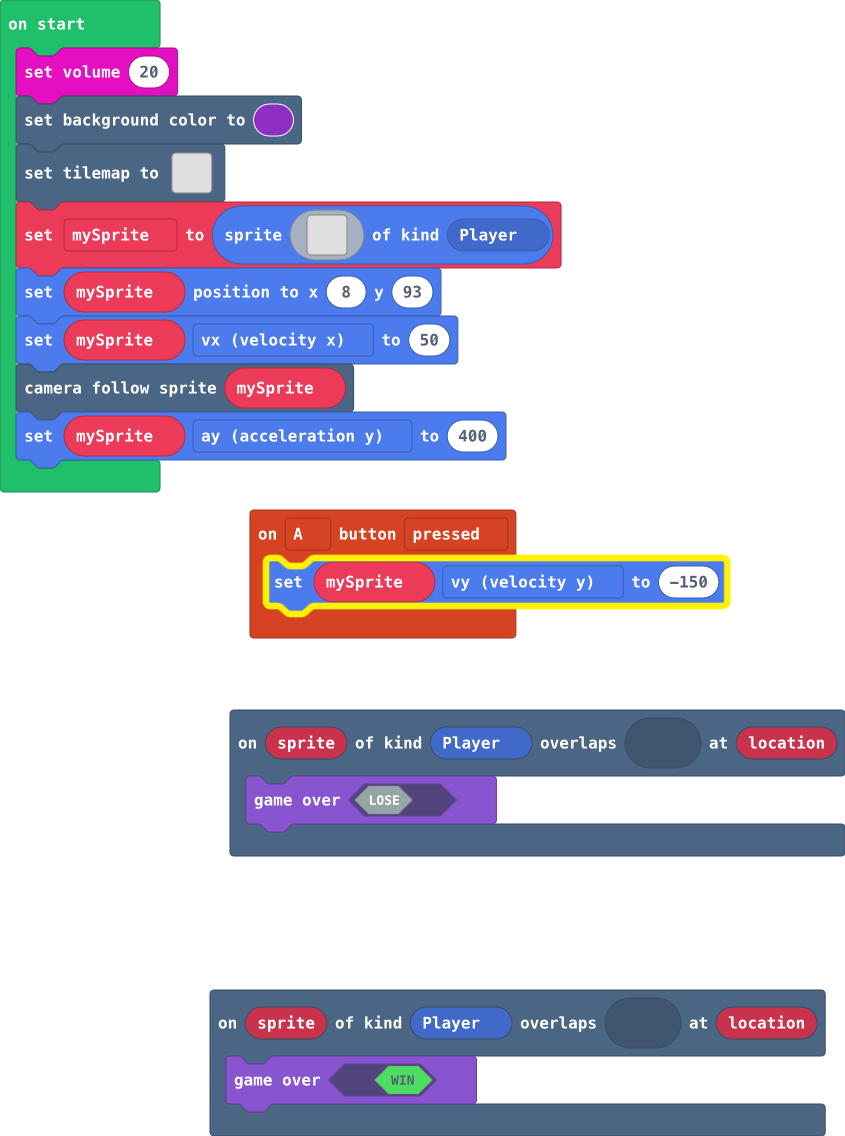
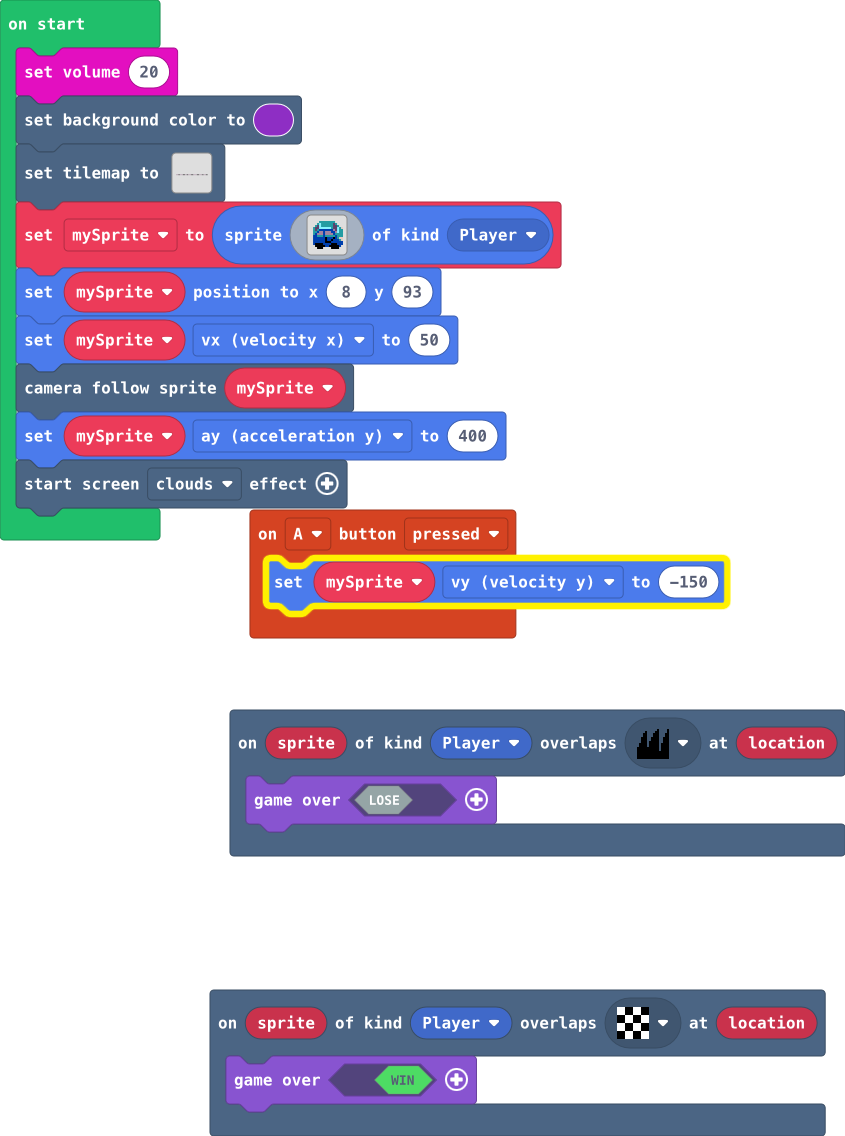
Update main.blocks, main.ts

diff --git a/main.ts b/main.ts
@@ -42,3 +42,4 @@ mySprite.setPosition(8, 93)
 mySprite.vx = 50
 scene.cameraFollowSprite(mySprite)
 mySprite.ay = 400
+effects.clouds.startScreenEffect()
